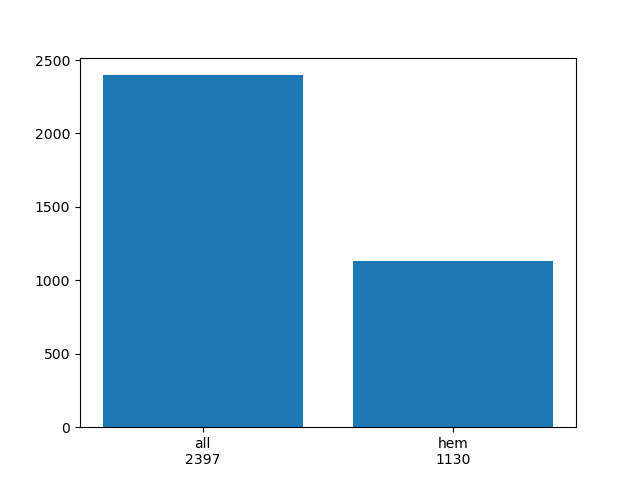
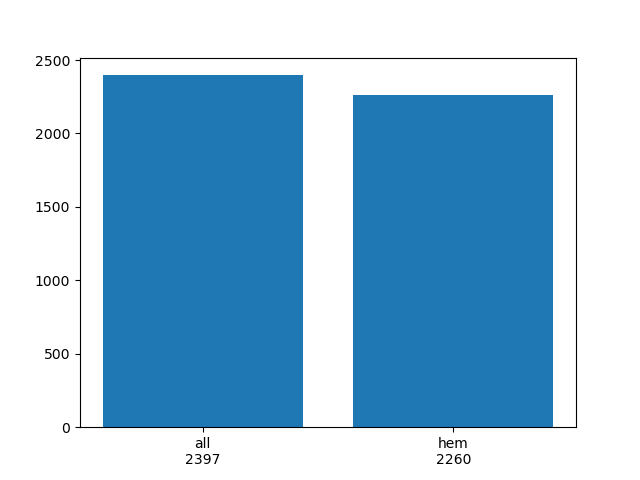
data augmentation for hem class

Changed region(s): [[0.5312, 0.1875, 0.875, 0.5625], [0.6875, 0.9375, 0.75, 0.9688]]

diff --git a/data_augment.py b/data_augment.py
@@ -1,0 +1,26 @@
+import os
+import cv2
+import random
+
+def augment_data(path):
+    #for each image in the folder aplly either a rotation or a flip for data augmentation purpose
+
+    if "augmented_0.bmp" not in os.listdir(path):
+        for i, file in enumerate(os.listdir(path)):
+            image = cv2.imread(path+file)
+            augment = random.randint(0,5)
+            match augment:
+                case 0:
+                    image = cv2.flip(image, 0)
+                case 1:
+                    image = cv2.flip(image, -1)
+                case 2:
+                    image = cv2.flip(image, 0)
+                    image = cv2.flip(image, -1)
+                case 3:
+                    image = cv2.rotate(image, cv2.ROTATE_90_CLOCKWISE)
+                case 4:
+                    image = cv2.rotate(image, cv2.ROTATE_180)
+                case _:
+                    image = cv2.rotate(image, cv2.ROTATE_90_COUNTERCLOCKWISE)
+            cv2.imwrite(f"{path}augmented_{i}.bmp", image)

diff --git a/train.py b/train.py
@@ -2,6 +2,7 @@ import os
 import tensorflow as tf
 import matplotlib.pyplot as plt
 from model import LeukemiaDetector
+import data_augment
 #from sklearn.model_selection import train_test_split
 
 DATASET_PATH = 'C-NMC_Leukemia/'
@@ -12,6 +13,8 @@ FOLDS = sorted(os.listdir(TRAIN_PATH))
 total_dataset = []
 
 for fold in FOLDS:
+    data_augment.augment_data(f"{TRAIN_PATH}{fold}/hem/")
+
     loaded_imgs = tf.keras.utils.image_dataset_from_directory(TRAIN_PATH + fold, image_size=(450, 450))
     total_dataset.append(loaded_imgs)
 
